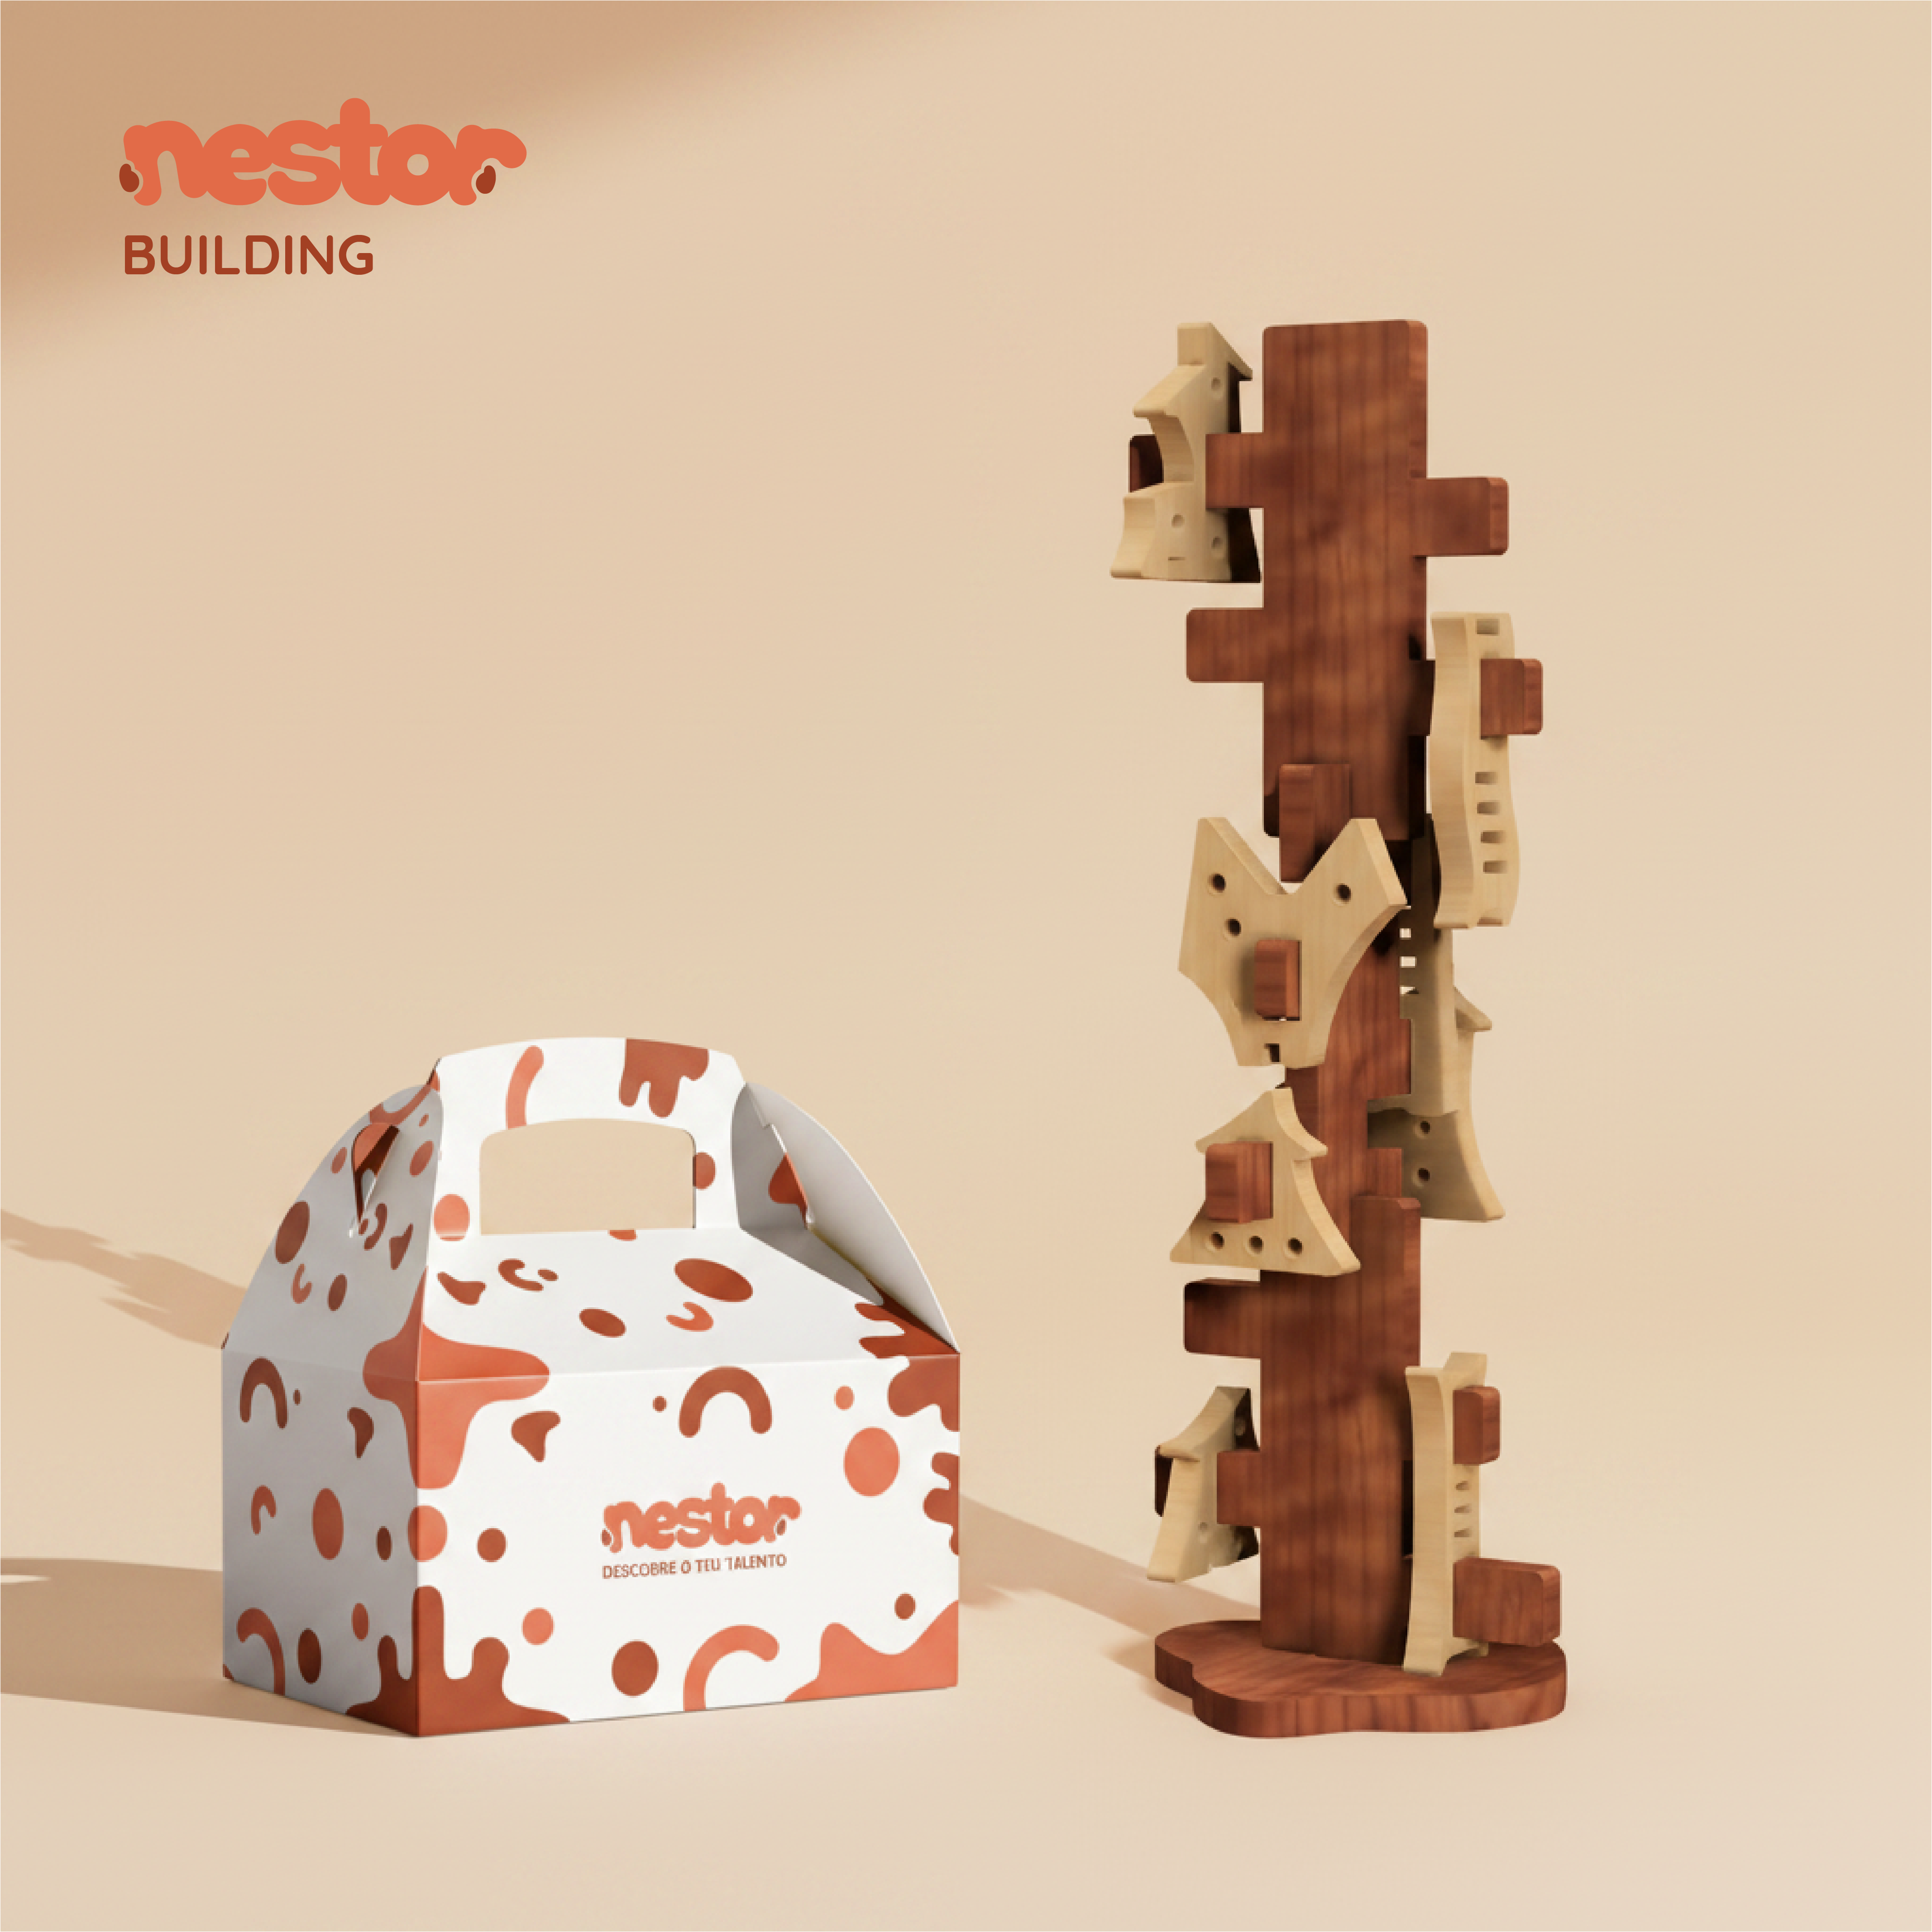
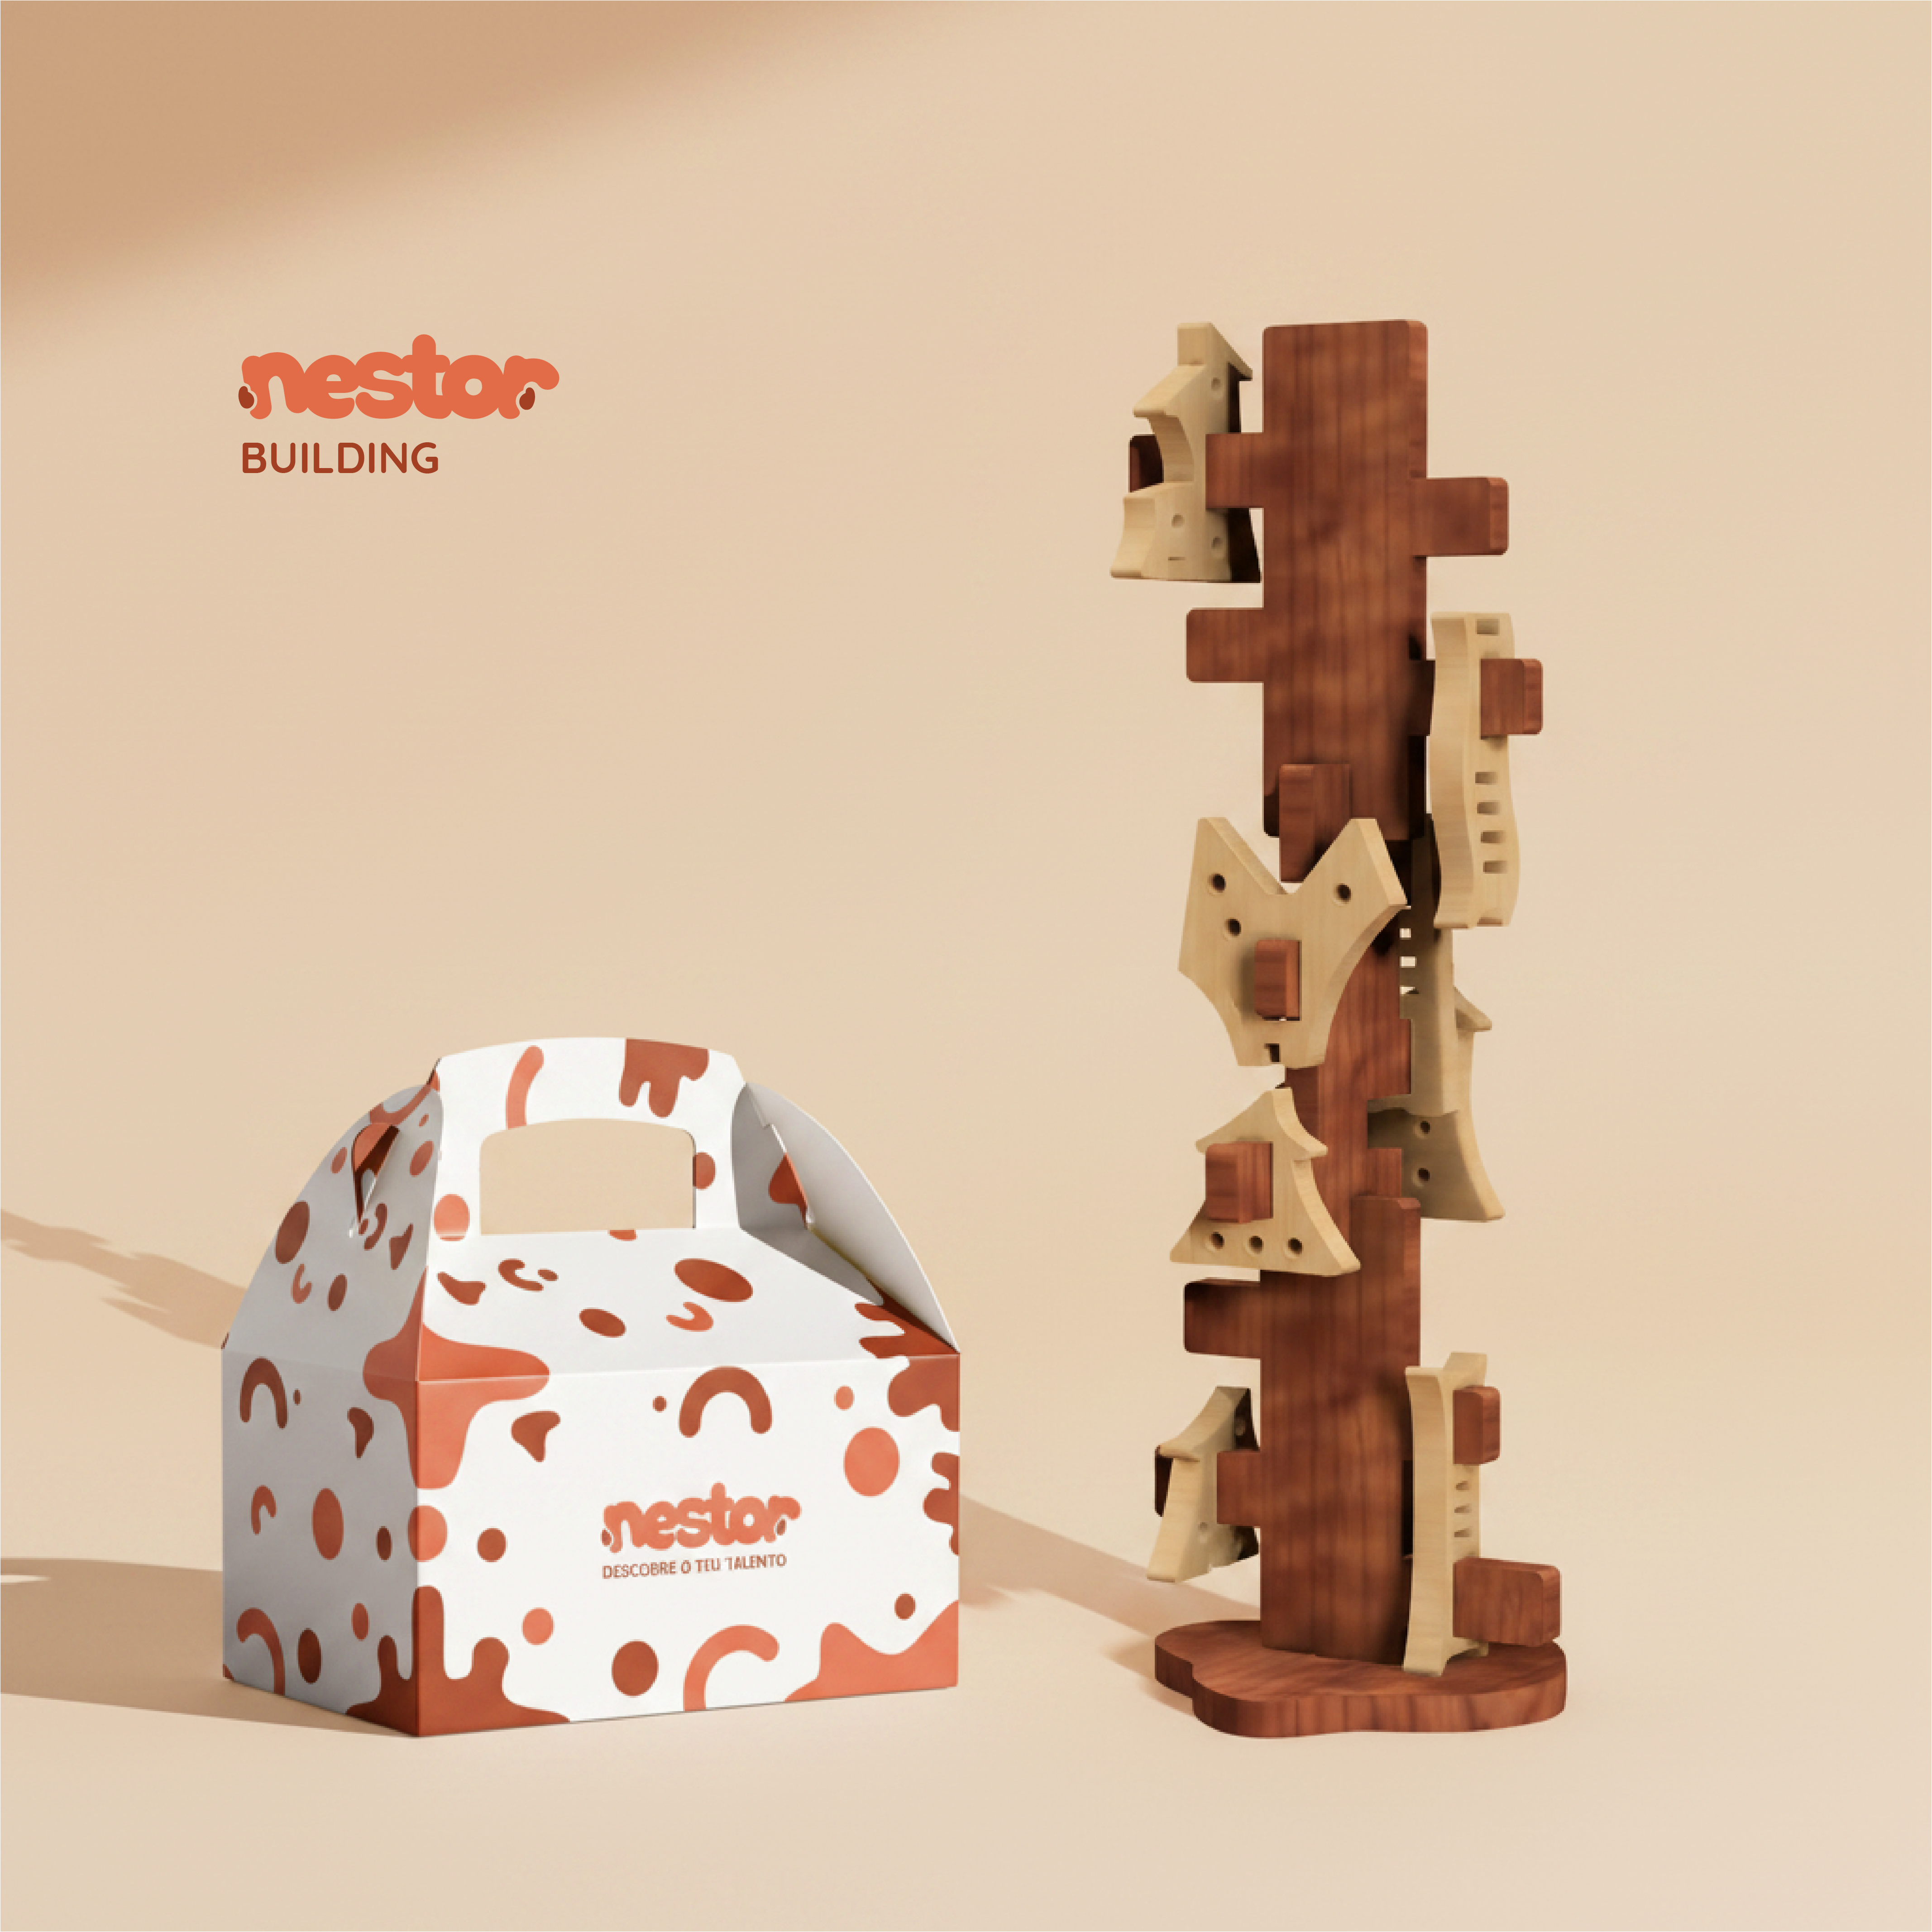
13 edição
ajustes - minha parte

Changed region(s): [[0.0623, 0.0312, 0.2805, 0.1558], [0.1246, 0.1558, 0.3116, 0.2493]]

diff --git a/produtos/Skyvila/index.md b/produtos/Skyvila/index.md
@@ -62,7 +62,7 @@ Esta conformidade assegura que o produto pode ser utilizado de forma segura tant
 Imagens-chave que sintetizam o produto final.
 Foram utilizadas imagens geradas no Pletor.ai para as duas primeiras fotografias, enquanto as restantes correspondem a renders produzidos no Fusion 360.
 
-![](attachments/capa_skyvila.png)
+![](attachments/apresentação_skyvila.png)
 ![](attachments/criança_brinquedo.png)
 ![](attachments/skyvila.png)
 ![](attachments/render1.png)